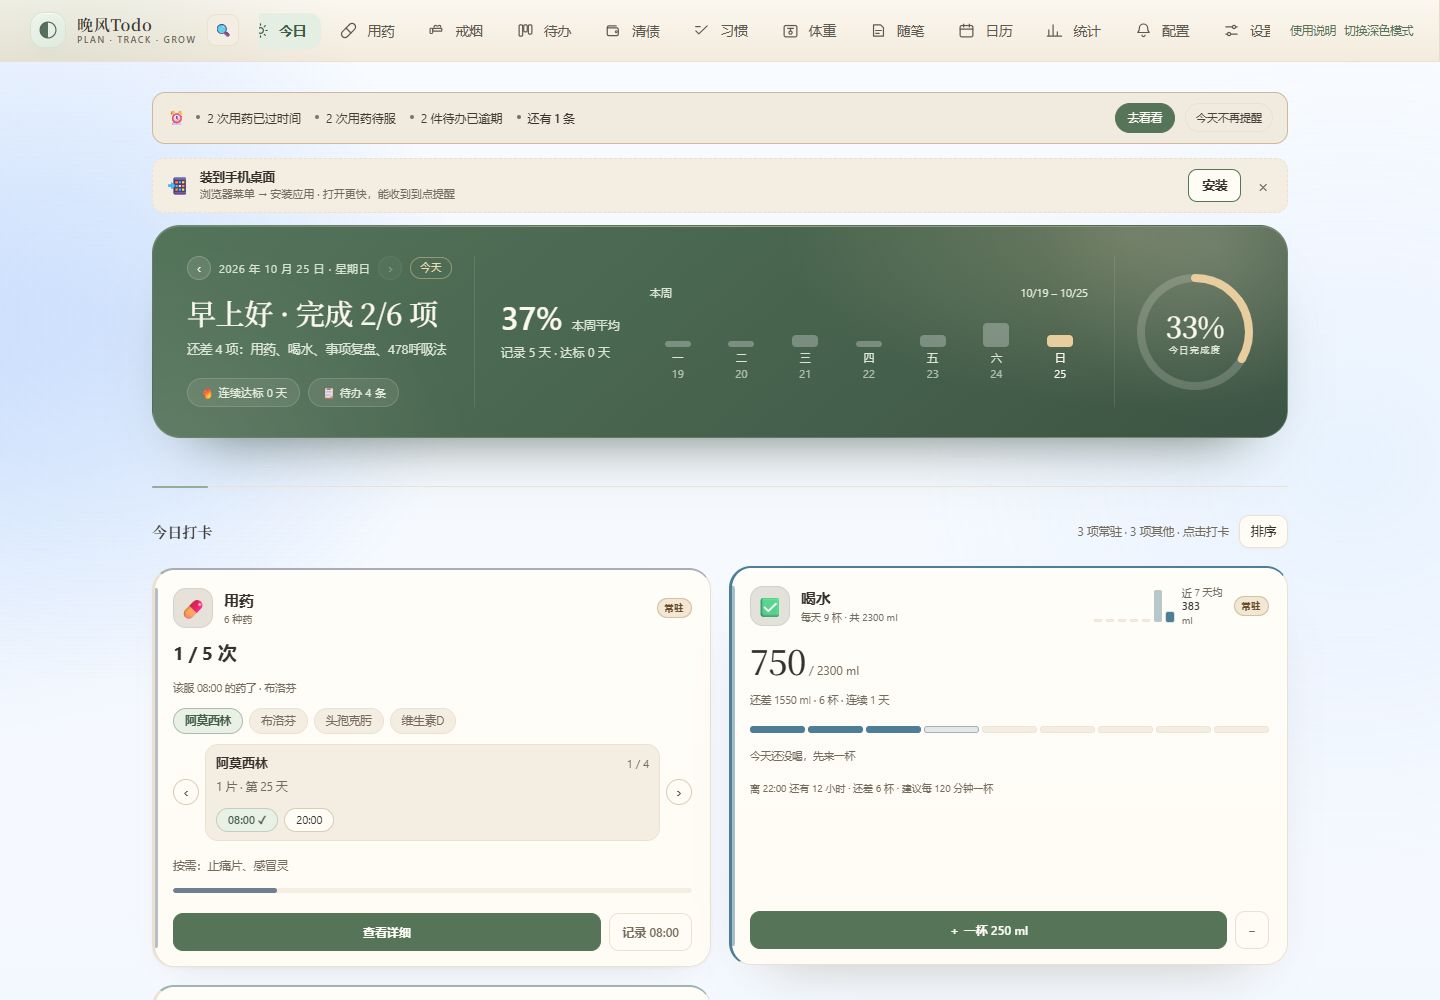
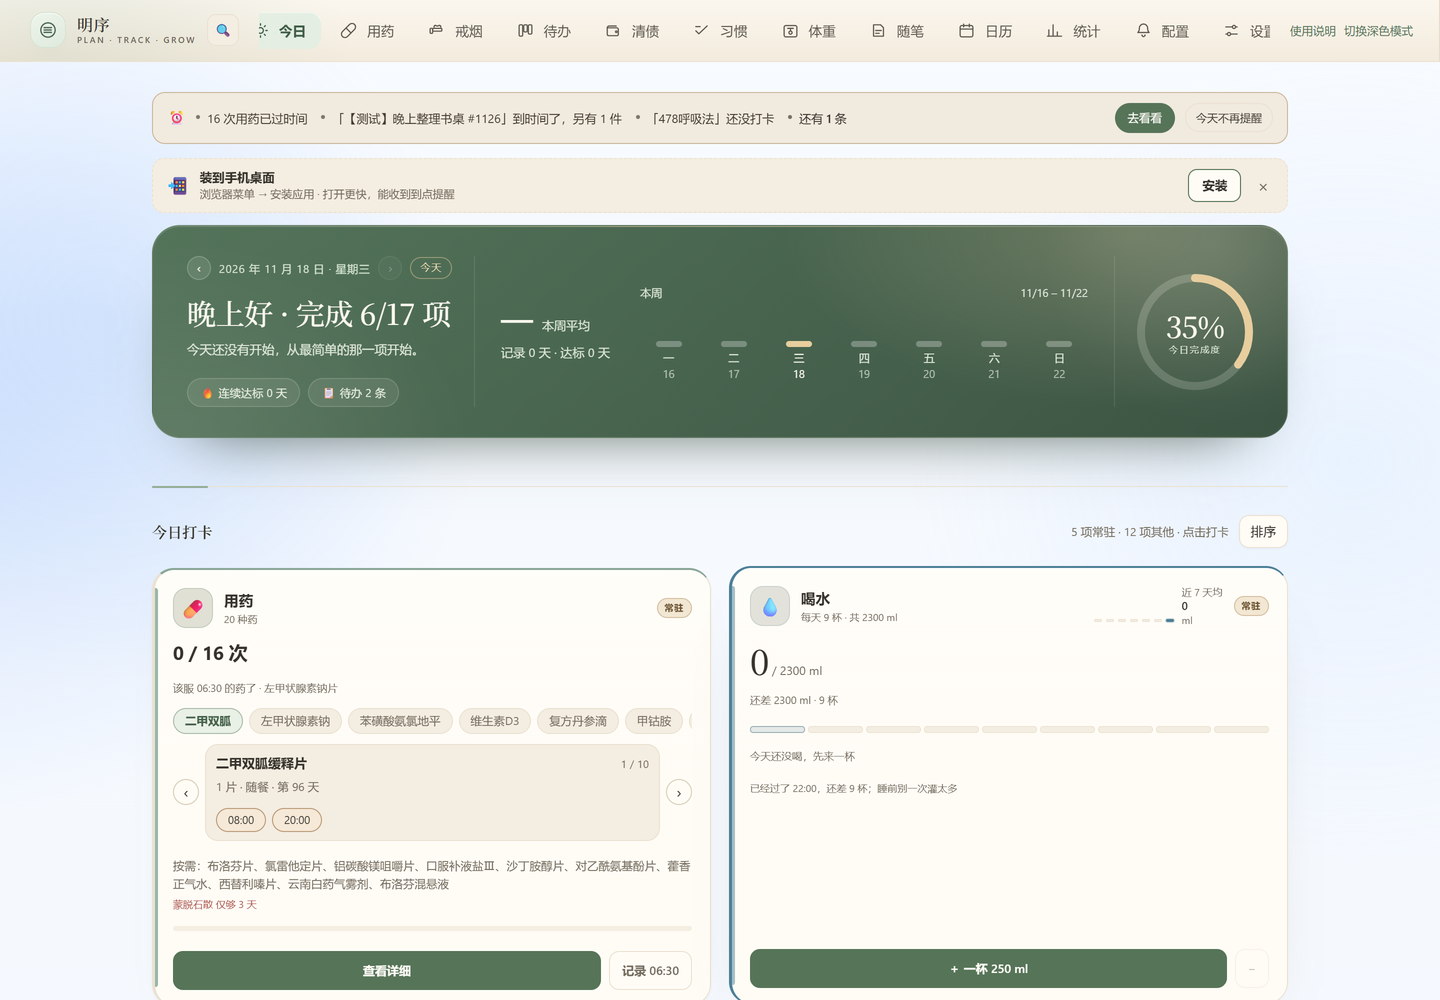
README 换新仓库地址（MingXu）+ 重截桌面截图（明序品牌）；git remote 同步

diff --git a/docs/RENAME-PLAN.md b/docs/RENAME-PLAN.md
@@ -12,9 +12,7 @@
 - [x] **作者署名「晚风」保不保留**。`index.html` 的页脚与备份注释里有
   「作者：晚风」+ 个人站链接，这是身份不是品牌。建议保留（那是你的网名），
   但品牌位（标题、页头、推送标题）一律换成明序。
-- [x] **GitHub 仓库名** `wanfeng-todo` 改不改。改名后 GitHub 会 301 重定向旧链接，
-  但 README 徽章、外部引用、`git remote` 都要跟着改。稳妥做法：先只改 About 与 README
-  文案，仓库名后置，或一次性改完（URL 会变，老链接 301 仍可用）。
+- [x] **GitHub 仓库名** 已改为 `MingXu`（2026-11-18）。旧链接 301 可用；README 徽章与 `git remote` 已同步。
 - [x] **logo 定稿**：见 BRAND.md 4.2 三个方向。定了我才出 SVG + 三张 PNG。
 
 ---

diff --git a/README.md b/README.md
@@ -2,7 +2,7 @@
 
 > 明晰诸事次序 · 看清，然后有序
 
-[![check](https://github.com/sl818/wanfeng-todo/actions/workflows/check.yml/badge.svg)](https://github.com/sl818/wanfeng-todo/actions/workflows/check.yml)
+[![check](https://github.com/sl818/MingXu/actions/workflows/check.yml/badge.svg)](https://github.com/sl818/MingXu/actions/workflows/check.yml)
 [![License: MIT](https://img.shields.io/badge/License-MIT-green.svg)](LICENSE)
 
 > 一个可自托管的个人生活仪表盘：**习惯打卡、用药记录、待办看板、体重、随笔、日历回顾、统计复盘**，
